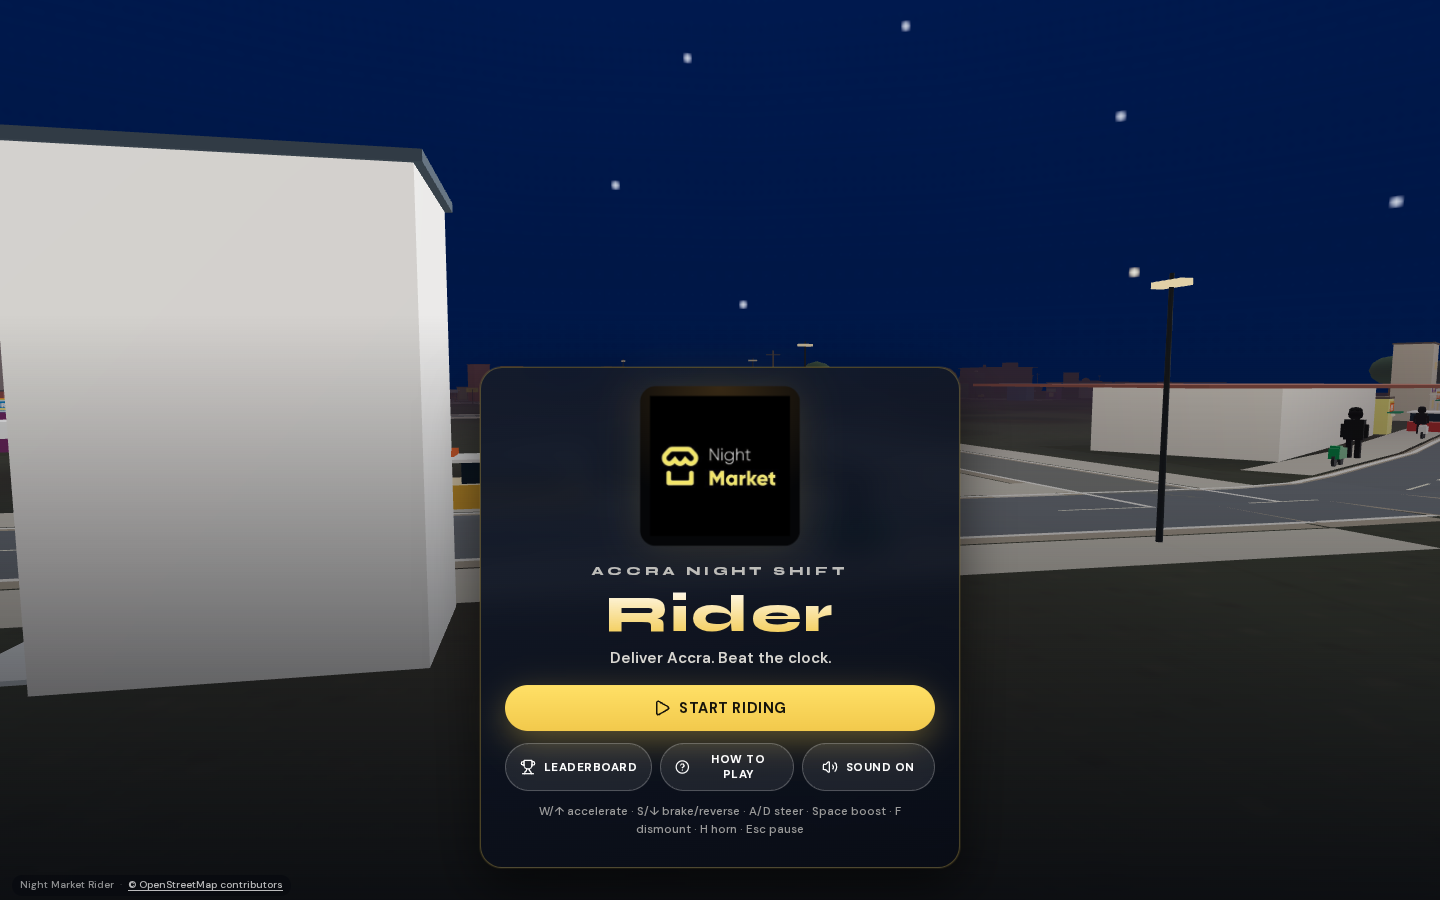
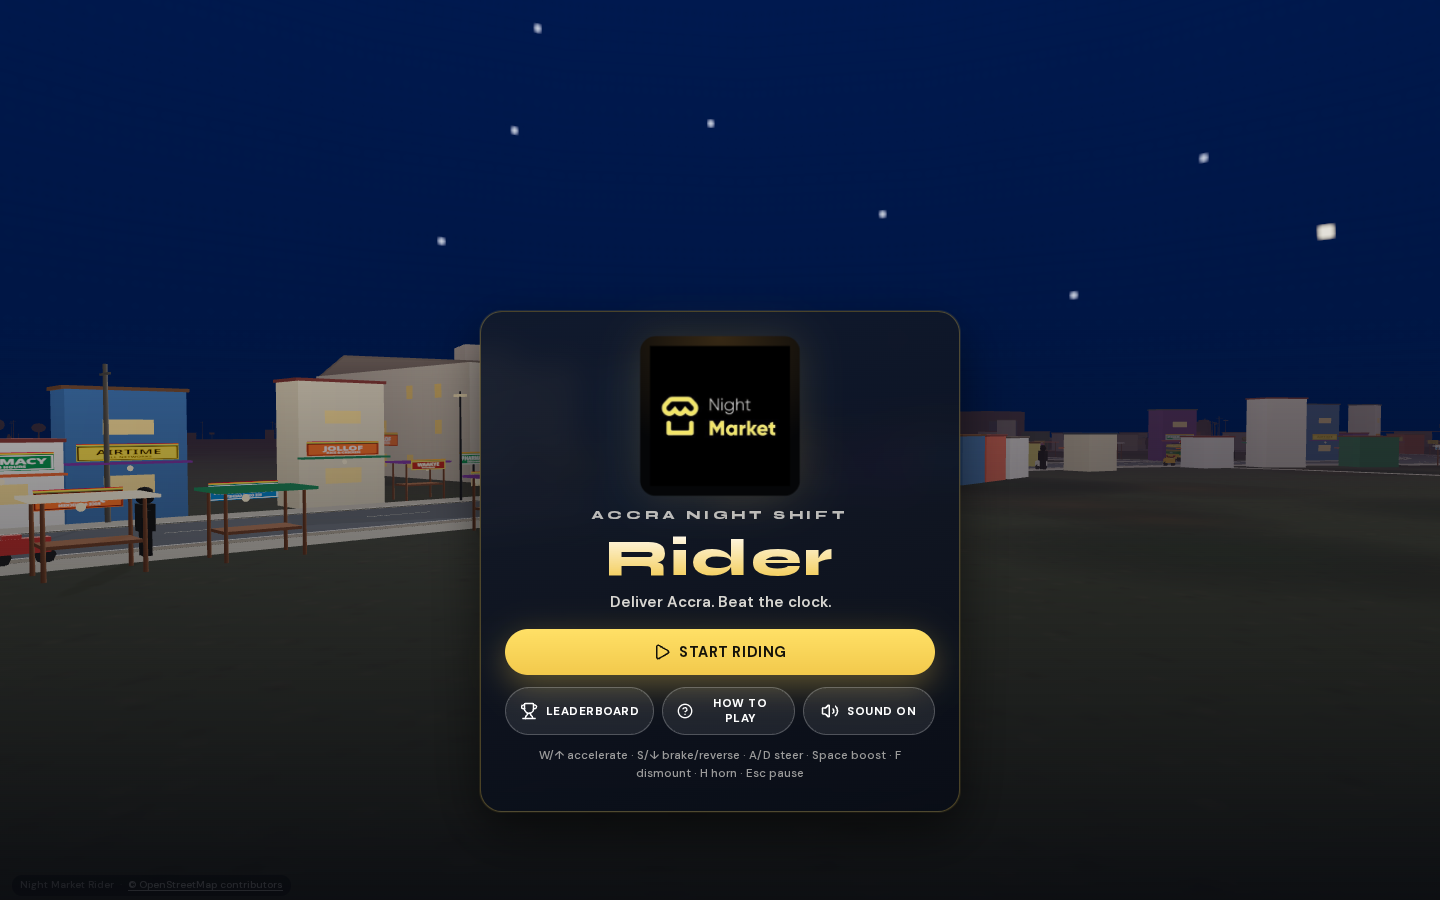
Fix title backdrop, mobile menu layout, and footer overlap
Anchor menu camera at Okponglo with road-aligned orbit, revert ACES exposure
and lower env map on buildings, icon-only title actions on narrow screens,
footer z-index below modals, and refresh after screenshots.

diff --git a/game/engine.ts b/game/engine.ts
@@ -120,9 +120,13 @@ export class Engine {
   audio = new GameAudio();
   input: Input = { up: false, down: false, left: false, right: false, boost: false };
   // player
-  px = 0; pz = -18; heading = Math.PI; speed = 0;
+  /** Lively OSM junction used for title/menu orbit (Okponglo). */
+  menuAnchorX = 280;
+  menuAnchorZ = 192;
+  menuAnchorHeading = Math.PI * 0.35;
+  px = 280; pz = 192; heading = Math.PI * 0.35; speed = 0;
   onFoot = false;
-  bikeX = 0; bikeZ = -18; bikeHeading = Math.PI;
+  bikeX = 280; bikeZ = 192; bikeHeading = Math.PI * 0.35;
   walker: HumanoidRig;
   walkMoving = false;
   vy = 0; py = 0; bump = 0; shake = 0;
@@ -239,12 +243,43 @@ export class Engine {
     this.world.fuelStations.length = 0;
     this.world.colliders.length = 0;
 
-    const snapped = this.osmWorld.nearestRoadPoint(this.px, this.pz, 120);
-    if (snapped) { this.px = snapped.x; this.pz = snapped.z; }
+    this.applyMenuShowcase();
     this.osmActive = true;
     this.osmPlay = new OsmGameplay(this.scene, this.osmWorld, this.isMobile);
-    this.osmPlay.start(this.px, this.pz);
+    this.osmPlay.start(this.menuAnchorX, this.menuAnchorZ);
     useGame.getState().pushToast("🗺 Real Accra map loaded");
+  }
+
+  /** Frame the title screen on a busy Accra junction with shops and traffic. */
+  private applyMenuShowcase() {
+    const loc = this.osmWorld.getLocation("okponglo");
+    const fallback = loc ?? { x: 280, z: 192 };
+    let x = fallback.x;
+    let z = fallback.z;
+    const frame = this.osmWorld.nearestRoadFrame(x, z, 90);
+    if (frame) {
+      x = frame.x;
+      z = frame.z;
+      this.menuAnchorHeading = Math.atan2(frame.tangentX, frame.tangentZ);
+    }
+    this.menuAnchorX = x;
+    this.menuAnchorZ = z;
+    this.px = x;
+    this.pz = z;
+    this.heading = this.menuAnchorHeading;
+    this.bikeX = x;
+    this.bikeZ = z;
+    this.bikeHeading = this.menuAnchorHeading;
+    void this.osmWorld.update(x, z, true);
+  }
+
+  private syncMenuPose(elapsedSec: number) {
+    const drift = Math.sin(elapsedSec * 0.12) * 2.8;
+    const along = Math.cos(elapsedSec * 0.09) * 1.6;
+    this.px = this.menuAnchorX + Math.sin(this.menuAnchorHeading) * drift + Math.cos(this.menuAnchorHeading) * along;
+    this.pz = this.menuAnchorZ + Math.cos(this.menuAnchorHeading) * drift - Math.sin(this.menuAnchorHeading) * along;
+    this.heading = this.menuAnchorHeading + Math.sin(elapsedSec * 0.14) * 0.06;
+    this.speed = 0;
   }
 
   private tickOsm(dt: number, elapsed: number) {
@@ -443,6 +478,7 @@ export class Engine {
       this.targetLabel = null;
     }
     this.speed = 0;
+    if (this.osmActive) this.applyMenuShowcase();
   }
 
   startRun() {
@@ -782,13 +818,7 @@ export class Engine {
     // ---- menu demo: slow orbit ----
     if (phase === "menu" || phase === "loading") {
       const t = performance.now() / 1000;
-      this.px = Math.sin(t * 0.1) * 4; this.pz = -18;
-      this.heading = Math.PI + Math.sin(t * 0.2) * 0.2;
-      this.speed = 0;
-      if (this.osmActive) {
-        const snapped = this.osmWorld.nearestRoadPoint(0, -18, 80);
-        if (snapped) { this.px = snapped.x + Math.sin(t * 0.1) * 4; this.pz = snapped.z; }
-      }
+      this.syncMenuPose(t);
       this.tickOsm(dt, t);
       this.world.update(dt, t, NIGHT_FLOOR, this.px, this.pz);
       this.syncRig(dt, t, 0);
@@ -1363,13 +1393,21 @@ export class Engine {
   updateCamera(dt: number, menu: boolean) {
     const t = performance.now() / 1000;
     if (menu) {
-      const a = t * 0.25;
-      _menuTarget.set(this.px + Math.sin(a) * 9, 3.4, this.pz + Math.cos(a) * 9);
+      const a = t * 0.22;
+      const orbit = 10.5;
+      const hd = this.heading;
+      _menuTarget.set(
+        this.px + Math.sin(a + hd) * orbit,
+        4.1,
+        this.pz + Math.cos(a + hd) * orbit,
+      );
       this.camPos.lerp(_menuTarget, Math.min(1, dt * 2));
       this.camera.position.copy(this.camPos);
-      this.camera.lookAt(this.px, 1.8, this.pz);
+      const lookX = this.px + Math.sin(hd) * 14;
+      const lookZ = this.pz + Math.cos(hd) * 14;
+      this.camera.lookAt(lookX, 2.1, lookZ);
       const prevFov = this.camera.fov;
-      this.camera.fov += (58 - this.camera.fov) * dt * 2;
+      this.camera.fov += (56 - this.camera.fov) * dt * 2;
       if (Math.abs(this.camera.fov - prevFov) > 0.001) this.camera.updateProjectionMatrix();
       return;
     }

diff --git a/components/UI.tsx b/components/UI.tsx
@@ -378,27 +378,28 @@ export default function UI({
               <Play size={18} aria-hidden />
               Start riding
             </button>
-            <div className="btn-row">
-              <button type="button" className="btn btn-ghost btn-sm" onClick={() => setShowBoard(true)}>
-                <Trophy size={16} aria-hidden />
-                Leaderboard
+            <div className="btn-row btn-row--title">
+              <button type="button" className="btn btn-ghost btn-sm" onClick={() => setShowBoard(true)} aria-label="Leaderboard">
+                <Trophy size={18} aria-hidden />
+                <span className="btn-label">Leaderboard</span>
               </button>
-              <button type="button" className="btn btn-ghost btn-sm" onClick={() => setShowHelp(true)}>
-                <HelpCircle size={16} aria-hidden />
-                How to play
+              <button type="button" className="btn btn-ghost btn-sm" onClick={() => setShowHelp(true)} aria-label="How to play">
+                <HelpCircle size={18} aria-hidden />
+                <span className="btn-label">How to play</span>
               </button>
               <button
                 type="button"
                 className="btn btn-ghost btn-sm"
                 aria-pressed={s.sound}
+                aria-label={s.sound ? "Sound on" : "Sound off"}
                 onClick={() => {
                   const v = !s.sound;
                   s.set({ sound: v });
                   if (eng) eng.audio.setEnabled(v);
                 }}
               >
-                {s.sound ? <Volume2 size={16} aria-hidden /> : <VolumeX size={16} aria-hidden />}
-                {s.sound ? "Sound on" : "Sound off"}
+                {s.sound ? <Volume2 size={18} aria-hidden /> : <VolumeX size={18} aria-hidden />}
+                <span className="btn-label">{s.sound ? "Sound on" : "Sound off"}</span>
               </button>
             </div>
             <p className="nm-controls-hint">

diff --git a/app/globals.css b/app/globals.css
@@ -111,7 +111,7 @@ body {
 
 .modal-backdrop--menu {
   align-items: flex-end;
-  padding-bottom: calc(var(--space-6) + env(safe-area-inset-bottom, 0px));
+  padding-bottom: calc(56px + var(--space-6) + env(safe-area-inset-bottom, 0px));
   background: linear-gradient(transparent 35%, rgba(5, 7, 13, 0.85) 100%);
 }
 
@@ -176,6 +176,54 @@ body {
 
 .btn-row .btn {
   flex: 1;
+}
+
+.btn-row--title {
+  margin-top: var(--space-3);
+}
+
+@media (max-width: 520px) {
+  .btn-row--title {
+    display: grid;
+    grid-template-columns: repeat(3, minmax(0, 1fr));
+    gap: 8px;
+  }
+
+  .btn-row--title .btn {
+    flex: unset;
+    min-width: 0;
+    padding: 11px 8px;
+    font-size: 0.65rem;
+    letter-spacing: 0.02em;
+  }
+
+  .btn-row--title .btn-label {
+    position: absolute;
+    width: 1px;
+    height: 1px;
+    padding: 0;
+    margin: -1px;
+    overflow: hidden;
+    clip: rect(0, 0, 0, 0);
+    white-space: nowrap;
+    border: 0;
+  }
+
+  .nm-title-screen {
+    padding-left: var(--space-4);
+    padding-right: var(--space-4);
+  }
+
+  .card-narrow {
+    width: min(480px, calc(100vw - 24px));
+  }
+}
+
+@media (min-width: 521px) and (max-width: 640px) {
+  .btn-row--title .btn {
+    font-size: 0.68rem;
+    padding: 9px 10px;
+  }
 }
 
 /* ——— Pills & stats ——— */
@@ -902,7 +950,8 @@ body {
   position: fixed;
   left: var(--hud-safe-left);
   bottom: max(4px, env(safe-area-inset-bottom, 0px));
-  z-index: 70;
+  z-index: 8;
+  pointer-events: auto;
   display: flex;
   flex-wrap: wrap;
   align-items: center;

diff --git a/game/visual-quality.ts b/game/visual-quality.ts
@@ -14,7 +14,7 @@ export function applyVisualQuality(engine: Engine) {
 
   renderer.outputColorSpace = THREE.SRGBColorSpace;
   renderer.toneMapping = THREE.ACESFilmicToneMapping;
-  renderer.toneMappingExposure = mobile ? 1.06 : 1.12;
+  renderer.toneMappingExposure = mobile ? 1.04 : 1.08;
   renderer.shadowMap.enabled = true;
   renderer.shadowMap.type = THREE.PCFSoftShadowMap;
 
@@ -36,7 +36,7 @@ export function applyVisualQuality(engine: Engine) {
       if (!(material instanceof THREE.MeshStandardMaterial) && !(material instanceof THREE.MeshPhysicalMaterial)) continue;
 
       const heroMaterial = object.name === "wheel" || object.name === "wheel-rim";
-      material.envMapIntensity = heroMaterial ? 0.22 : 0.34;
+      material.envMapIntensity = heroMaterial ? 0.2 : 0.14;
 
       const maps = [material.map, material.normalMap, material.roughnessMap, material.metalnessMap, material.aoMap];
       for (const texture of maps) {
@@ -106,7 +106,7 @@ export function applyVisualQuality(engine: Engine) {
   const originalApplySky = engine.applySky.bind(engine);
   engine.applySky = (night: number) => {
     originalApplySky(night);
-    renderer.toneMappingExposure = (mobile ? 0.94 : 1.0) + night * 0.05;
+    renderer.toneMappingExposure = (mobile ? 0.92 : 0.98) + night * 0.04;
     if (scene.fog instanceof THREE.FogExp2) {
       const duskFog = mobile ? 0.0092 : 0.008;
       scene.fog.density = duskFog + night * 0.0015;

diff --git a/docs/ui-polish-design.md b/docs/ui-polish-design.md
@@ -28,6 +28,11 @@
 
 - `pop` entrance on overlays; `floaty` on logo (disabled under `prefers-reduced-motion`).
 
+## Title backdrop
+
+- Menu orbit is anchored at **Okponglo Roundabout** (OSM location) with road-aligned camera look-ahead so the title frames shops, traffic, and street life instead of a blank facade.
+- ACES exposure matches pre-polish main values; environment map intensity on buildings is kept low to avoid washed-out walls.
+
 ## Deferred
 
 - Full-screen bloom post-processing (skipped for bundle/perf; tone mapping + lamp emissive kept).
